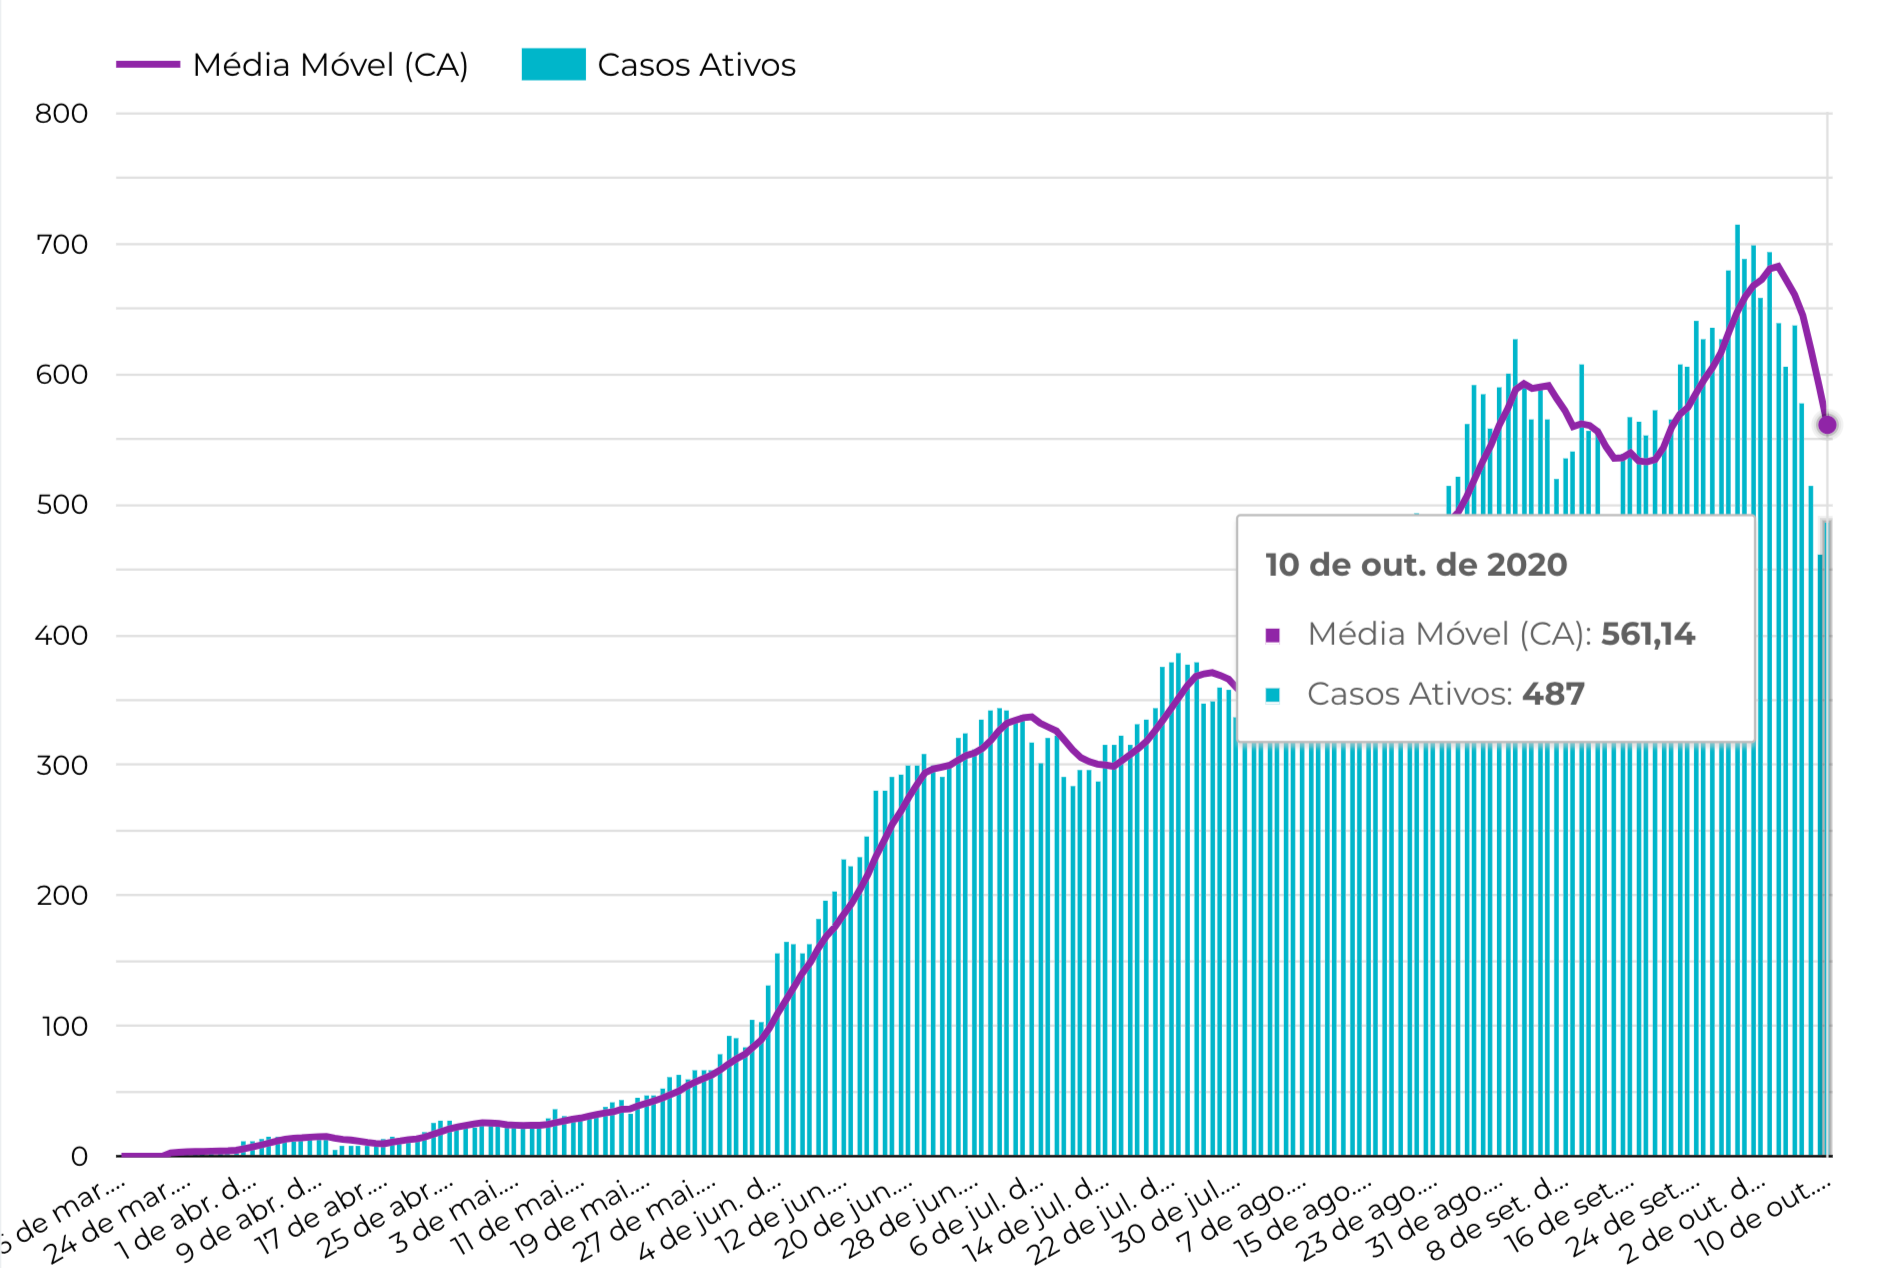
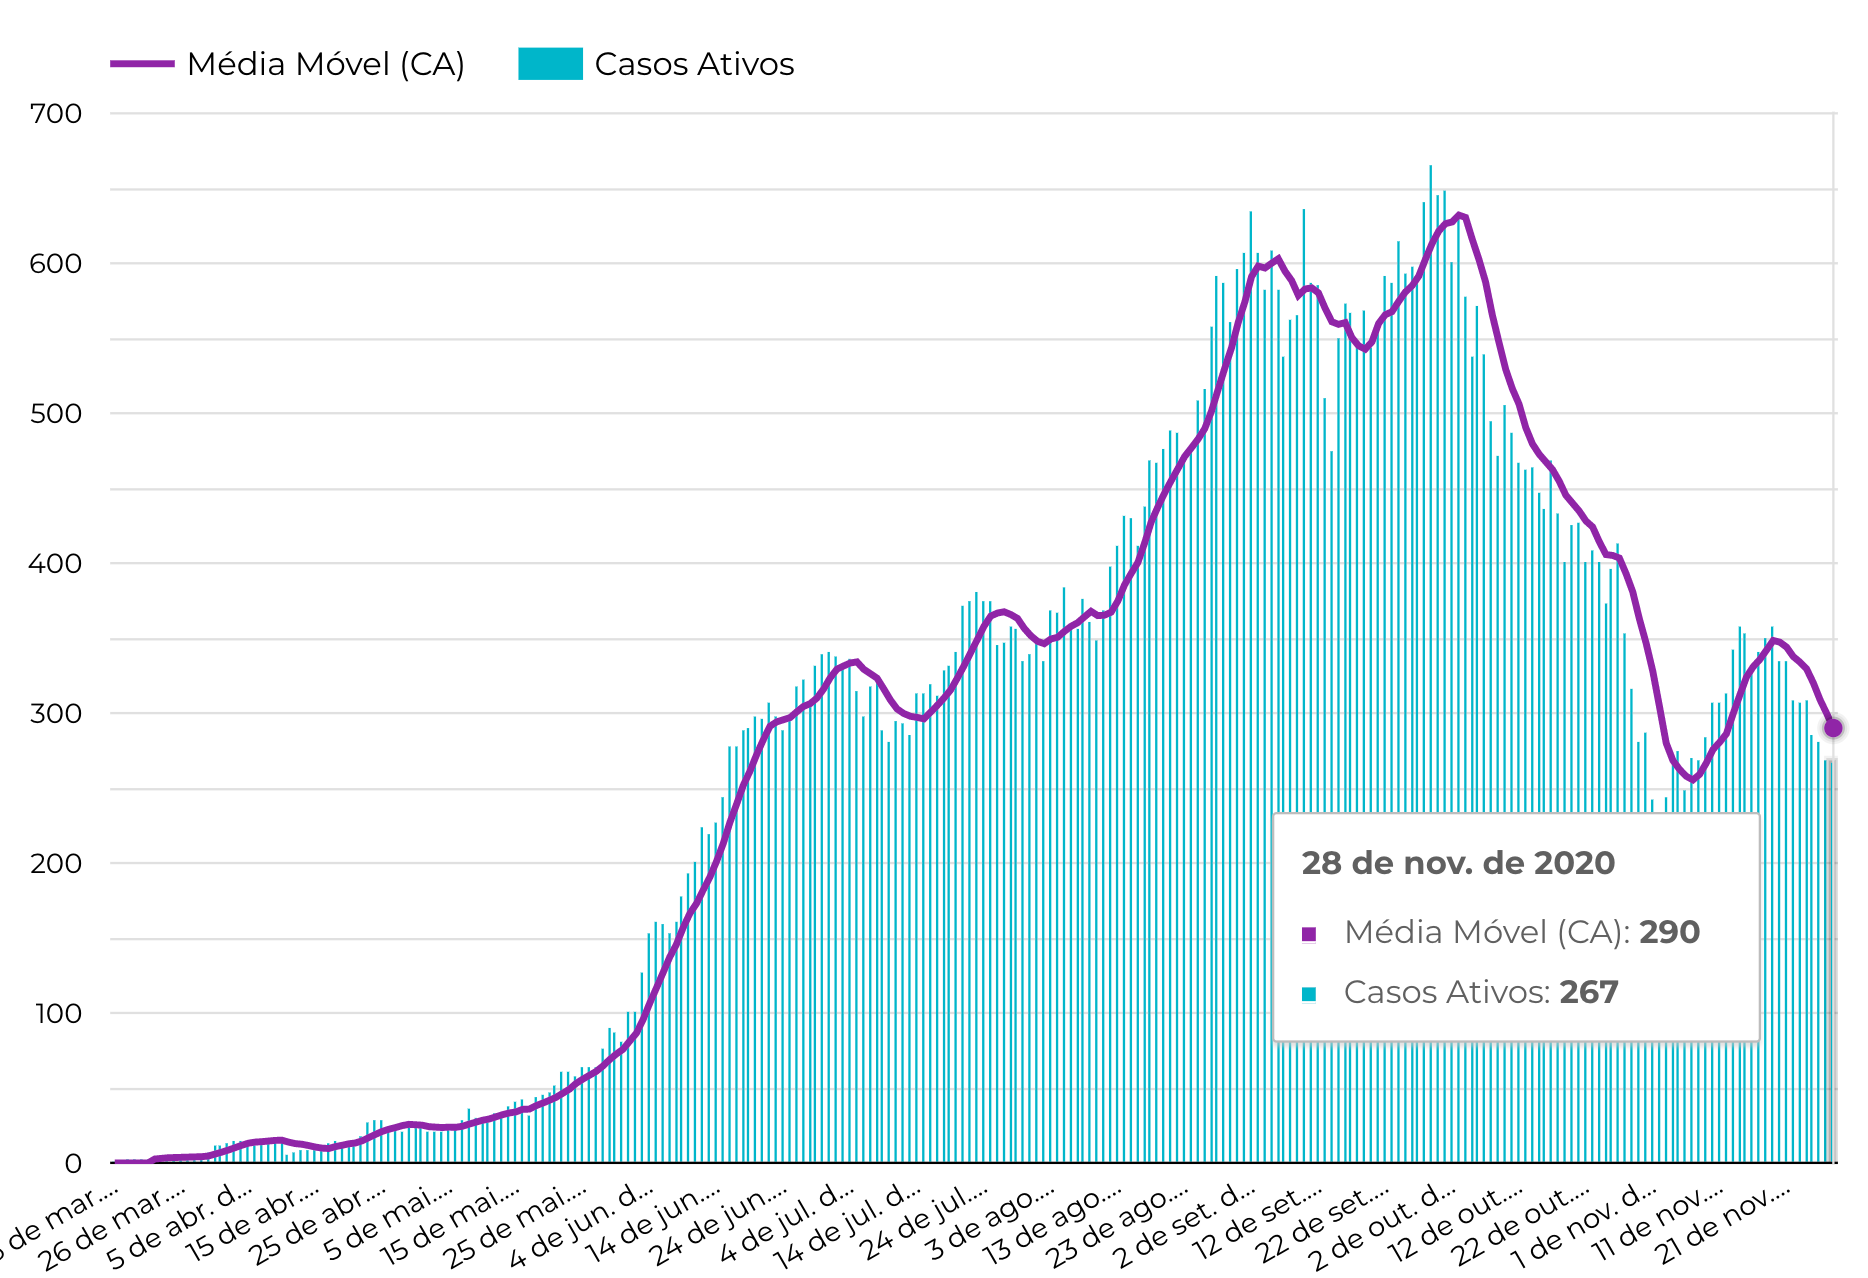
atualizacao dados

diff --git a/index.html b/index.html
@@ -135,7 +135,7 @@
               <!-- CARD.TITLE.TEXT -->
               <h2 class="display">Casos de Uberaba</h2>
             <!--/a-->
-            <p class="card-text">Dados e projeções para o município de Uberaba, informações até o dia 10 de outubro de 2020. Informações coletadas com a própria Secretaria Municipal de Saúde de Uberaba.</p>
+            <p class="card-text">Dados e projeções para o município de Uberaba, informações até o dia 28 de novembro de 2020. Informações coletadas com a própria Secretaria Municipal de Saúde de Uberaba.</p>
             <!-- CARD.TITLE.DESCRIPTION -->
           </div>
         </div>
@@ -147,8 +147,8 @@
 
         <p class="text-justify mt-3">
             <ul>
-            <li>No dia de hoje (10/10/2020), acumulamos 6716 casos notificados.</li>
-            <li>Projeção para dia 15 de outubro é de 7032 podendo chegar até 7433 casos notificados, como indicado pela faixa cinza.</li>
+            <li>No dia de hoje (28/11/2020), acumulamos 8861 casos notificados.</li>
+            <li>Projeção para dia 03 de dezembro é de 9021 podendo chegar até 9466 casos notificados, como indicado pela faixa cinza.</li>
             <li>Pontos pretos: número de casos confirmados a cada dia.</li>
             <li>Pontos laranjas: a previsão para os próximos 5 dias.</li>
             </ul>
@@ -176,7 +176,7 @@
         </div>
 
         <p class="text-justify mt-3">
-        Todos os dados foram obtidos da própria Secretária Municipal de Saúde de Uberaba até o dia 10 de outubro de 2020.
+        Todos os dados foram obtidos da própria Secretária Municipal de Saúde de Uberaba até o dia 28 de novembro de 2020.
         </p>
 
 <!--        <a href="https://datastudio.google.com/reporting/1CX1pHjDrbb7X1gEIeVY1sxQp8PziWgpN/page/g6OUB?s=hWFHXQaeMZY" target="_blank">
@@ -193,7 +193,7 @@
         <p class="text-justify mt-3"> Figura 2: Indicadores dos casos de Covid-19 em Uberaba. Clique na imagem para ver o gráfico interativo </p>
 
         <p class="text-justify mt-3">
-        Os gráficos da Figura 2 apresentam um panorama geral da evolução da covid-19 na cidade de Uberaba. No dia 10/10/2020 a cidade apresenta 6716 casos notificados confirmados dos quais 90% são considerados recuperados.
+        Os gráficos da Figura 2 apresentam um panorama geral da evolução da covid-19 na cidade de Uberaba. No dia 28/11/2020 a cidade apresenta 8861 casos notificados confirmados dos quais 94% são considerados recuperados.
         </p>
 
         <div class="media-body">
@@ -208,7 +208,7 @@
         </p>
 
         <p class="text-justify mt-3">
-        A Figura 3, apresenta a média móvel dos casos confirmados considerando um intervalo de sete dias. A média móvel dos casos confirmados em Uberaba no dia 10/10 é de 6521.
+        A Figura 3, apresenta a média móvel dos casos confirmados considerando um intervalo de sete dias. A média móvel dos casos confirmados em Uberaba no dia 28/11 é de 8768.
         </p>
 
         <a href="https://datastudio.google.com/reporting/1eNQdQv-rpu3yne8bvqD71-j8gS44fYts/page/sLUUB?s=sfL5MYwUyi4" target="_blank">
@@ -222,7 +222,7 @@
         </p>
 
         <p class="text-justify mt-3">
-       A Figura 4 apresenta a curva de casos ativos ao longo do tempo junto com a média móvel considerando intervalos de sete dias. A média móvel de casos ativos da covid-19 no dia 10/10 é de 561.
+       A Figura 4 apresenta a curva de casos ativos ao longo do tempo junto com a média móvel considerando intervalos de sete dias. A média móvel de casos ativos da covid-19 no dia 28/11 é de 290.
         </p>
 
         <a href="https://datastudio.google.com/reporting/1eNQdQv-rpu3yne8bvqD71-j8gS44fYts/page/sLUUB?s=sfL5MYwUyi4" target="_blank">
@@ -272,7 +272,7 @@
         <p class="text-justify mt-3"> Figura 6: Novos casos diários confirmados e média móvel </p>
 
         <p class="text-justify mt-3">
-        A Figura 7  apresenta a evolução da variação da média móvel dos novos casos diários. No dia 10/10 a variação é de -31%, nesse momento, indica situação de queda, de acordo com os parâmetros usados pelos especialistas.
+        A Figura 7  apresenta a evolução da variação da média móvel dos novos casos diários. No dia 28/11 a variação é de -15%, nesse momento, indica situação de estabilidade, de acordo com os parâmetros usados pelos especialistas.
         </p>
 
 
@@ -289,15 +289,15 @@
         Duas taxas dão importantes quando precisa entender o número de óbitos de uma doença,  a taxa de letalidade e a taxa de mortalidade. A letalidade é uma taxa que compara o número de óbitos com a quantidade de pessoas infectadas pela doença. A mortalidade é um índice obtido por uma relação dos óbitos por uma causa específica em um determinado período de tempo para cada 100.000 habitantes da área analisada.
 
         <p class="text-justify mt-3">
-        <li> A <b> taxa de letalidade </b> é calculada como o número total de óbitos dividido pelo número total de casos confirmados. Hoje, a taxa de letalidade de Uberaba é de 2,59%. Isso significa que a cada 100 pessoas que tem o dignóstico confirmado de covid-19, 2,59 dessas pessoas podem vir a óbito.</li>
+        <li> A <b> taxa de letalidade </b> é calculada como o número total de óbitos dividido pelo número total de casos confirmados. Hoje, a taxa de letalidade de Uberaba é de 2,55%. Isso significa que a cada 100 pessoas que tem o dignóstico confirmado de covid-19, 2,55 dessas pessoas podem vir a óbito.</li>
         </p>
 
         <p class="text-justify mt-3">
-        <li>A <b>taxa de mortalidade </b> é calculada considerando o número de óbitos pelo número total da população de Uberaba vezes 100 mil. No dia 10/10/2020 a taxa de mortalidade é de 50,75/100mil habitantes. Isso significa que a cada 100 mil pessoas de Uberaba, 50,75 delas podem vir a óbito por causa da covid-19.</li>
+        <li>A <b>taxa de mortalidade </b> é calculada considerando o número de óbitos pelo número total da população de Uberaba vezes 100 mil. No dia 28/11/2020 a taxa de mortalidade é de 67,71/100mil habitantes. Isso significa que a cada 100 mil pessoas de Uberaba, 67,71 delas podem vir a óbito por causa da covid-19.</li>
         </p>
 
         <p class="text-justify mt-3">
-        O gráfico da Figura 8 apresenta a evolução do número de óbitos com a média móvel e também a variação dessa média. A variação da média móvel do número de óbitos é de 20%.
+        O gráfico da Figura 8 apresenta a evolução do número de óbitos com a média móvel e também a variação dessa média. A variação da média móvel do número de óbitos é de 2%.
         </p>
 
         <a href="https://datastudio.google.com/reporting/1eNQdQv-rpu3yne8bvqD71-j8gS44fYts/page/sLUUB?s=sfL5MYwUyi4" target="_blank">
@@ -323,7 +323,7 @@
 
         <!--CARD.TEXT -->
         <p class="text-justify mt-3">
-          O número Reprodutivo efetivo (Rt) é a média de pessoas contaminadas por um infectado. Valores maiores que 1 indicam que o número de novos casos está aumentando. Valores próximos de um indicam um número constante de casos a cada dia. Apenas valores de Rt abaixo de um por muitos dias indicam tendência de redução no número de casos. A média do Rt dos últimos sete dias é de 0,80.
+          O número Reprodutivo efetivo (Rt) é a média de pessoas contaminadas por um infectado. Valores maiores que 1 indicam que o número de novos casos está aumentando. Valores próximos de um indicam um número constante de casos a cada dia. Apenas valores de Rt abaixo de um por muitos dias indicam tendência de redução no número de casos. A média do Rt dos últimos sete dias é de 0,83.
         </p>
         <img src="./web/municipios/MG/Uberaba/taxaRt1.png" class="img-fluid" style="max-height:600px;" alt="Gŕafico mostrando o número de casos acumulados na cidade de Uberaba.">
         <p class="text-center mt-3">
@@ -343,11 +343,12 @@
             Figura 4: Taxa de Isolamento de Uberaba. (Fonte: www.farolcovid.coronacidades.org) - Última Atualização 11/07/2020
         </p> -->
         <!--Novo gráfico -->
-        <div class="media-body">
+
+      <!--  <div class="media-body">
             <h3 class="card-title">Comparativo de dados de cidades da região </h3>
-        </div>
+        </div> -->
 <!-- CARD.TEXT -->
-        <p class="text-justify mt-3">
+    <!--    <p class="text-justify mt-3">
           Estamos coletando dados sobre a covid-19 de cidades da região para assim podermos analisar estatisticamente como estamos reagindo a doença.
         </p>
        <img src="./web/municipios/MG/Uberaba/acomparativos.png" class="img-fluid" style="max-height:600px;" alt="Gŕafico comparando Uberaba com outras cidades.">
@@ -359,7 +360,7 @@
 
 
       </div>
-    </div>
+    </div>-->
 
     <!-- Sobre -->
     <div class="card">
